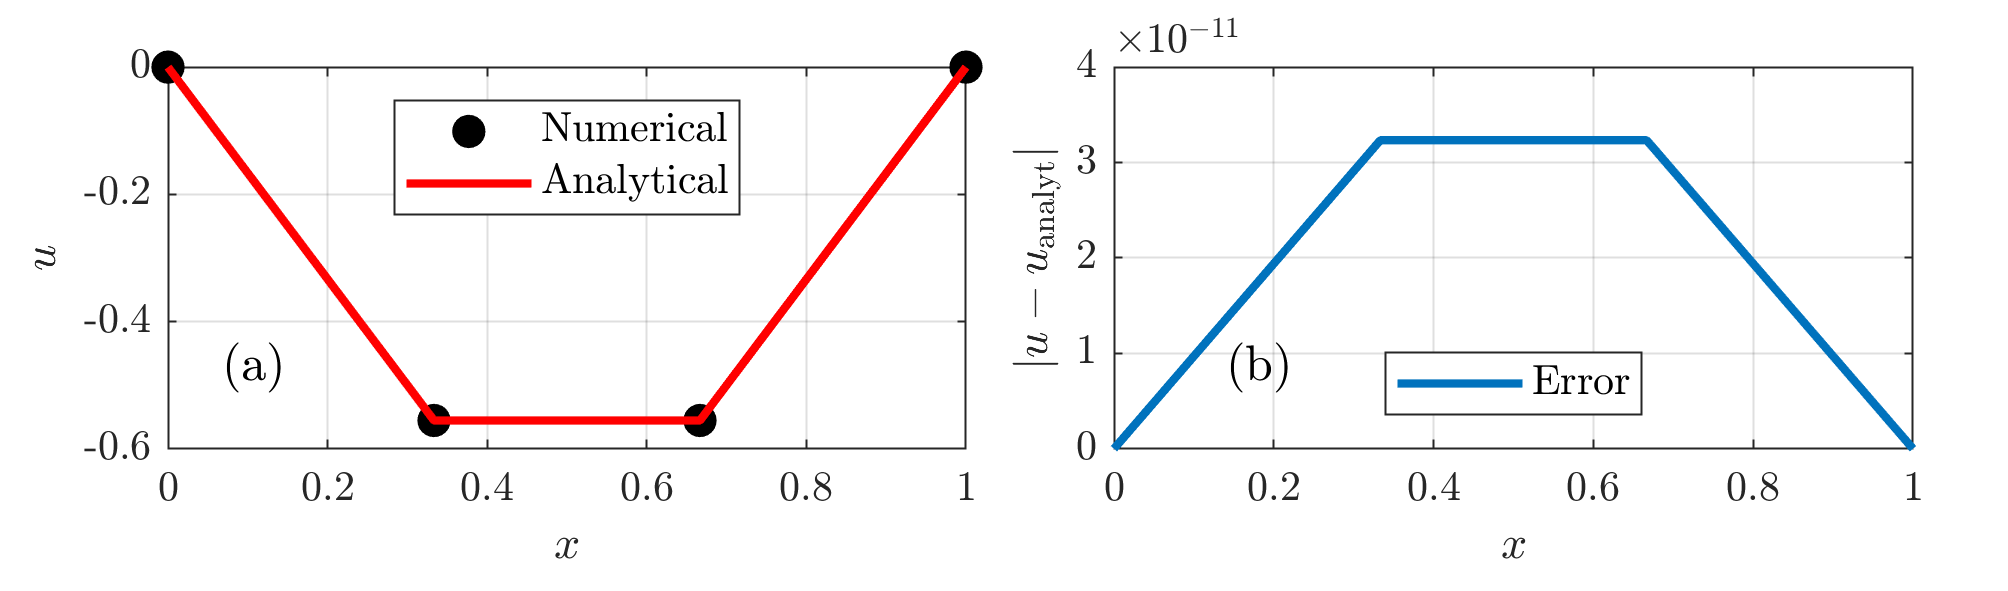
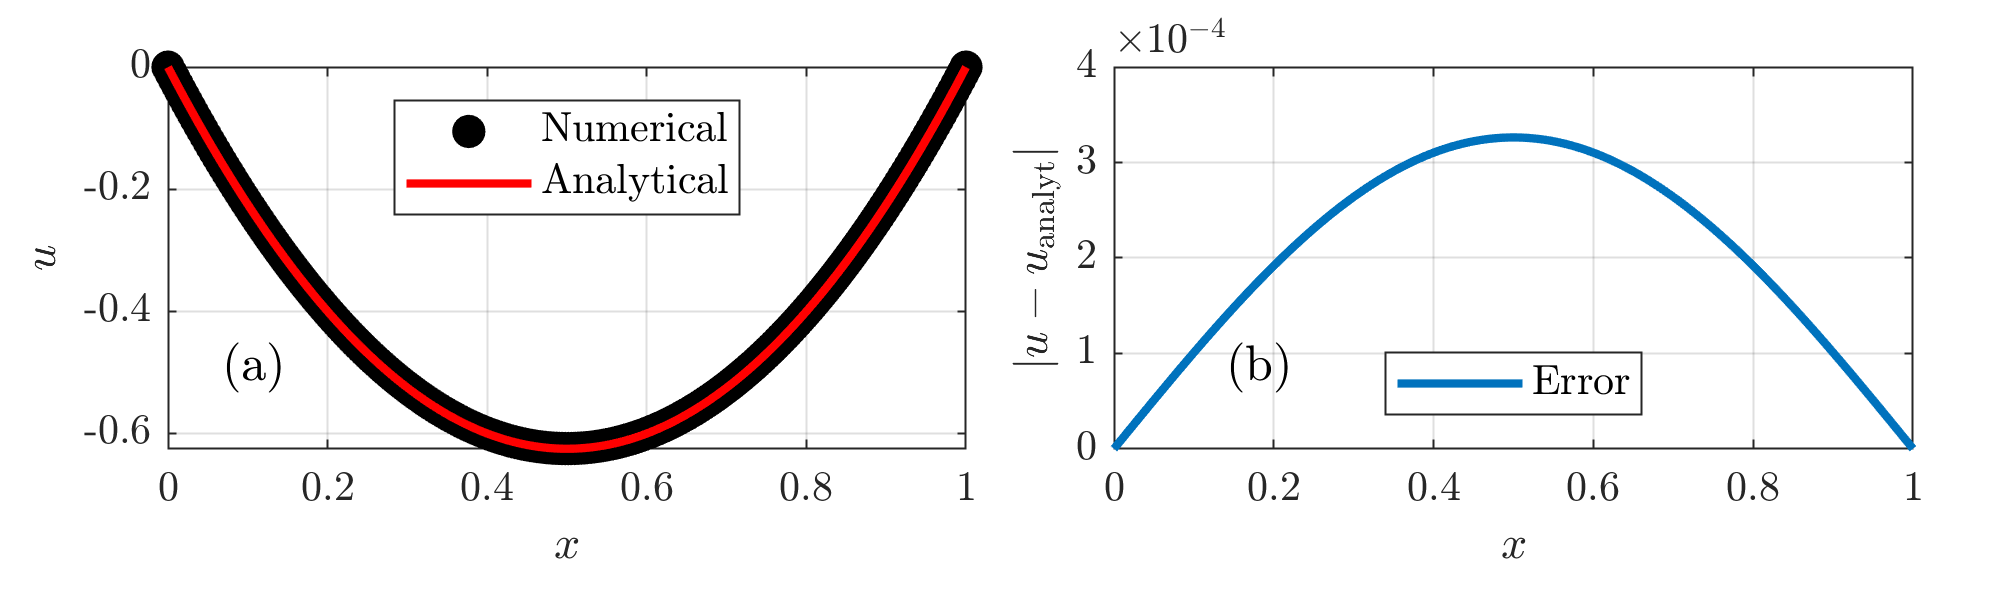
tyrell airfoil postprocessing added

diff --git a/postprocessing_tyrell_airfoil_simulation.m b/postprocessing_tyrell_airfoil_simulation.m
@@ -1,0 +1,23 @@
+clear all;
+close all;
+clc;
+
+
+data_dir = 'C:\Users\Tamas.Jozsa\OneDrive - Cranfield University\Desktop\tyrell4ACE\postproc';
+exp_data_file = 'Experiment_Cp_AoA_1_Freestream.dat';
+sim_data_file = 'pressure_coeff_case_compr_turb_SA_Re4.60e5_farfield_BC_second_order_AUSM.dat';
+
+exp_data = readmatrix(fullfile(data_dir, exp_data_file));
+exp_data = array2table(exp_data, ...
+    'VariableNames', {'x_coordinate', 'pressure_coefficient'});
+
+sim_data = readtable(fullfile(data_dir, sim_data_file));
+sim_data_upper = sortrows(sim_data(sim_data.pressure_coefficient >= 0, :), 'x_coordinate');
+sim_data_lower = sortrows(sim_data(sim_data.pressure_coefficient <= 0, :), 'x_coordinate');
+
+plot(exp_data.x_coordinate,exp_data.pressure_coefficient,'ko','MarkerFaceColor','black')
+hold on
+plot(sim_data_upper.x_coordinate,sim_data_upper.pressure_coefficient,'k-','LineWidth',2)
+plot(sim_data_lower.x_coordinate,sim_data_lower.pressure_coefficient,'b--','LineWidth',2)
+xlabel('x')
+ylabel('C_p')

diff --git a/BOS5_Poisson_solver.m b/BOS5_Poisson_solver.m
@@ -16,10 +16,10 @@ BC_value = [0,0];
 
 %% numerical configuration
 % number of nodes
-nx = 4;
+nx = 512;
 
 solver_type = 'indirect';
-niter = 200000;
+niter = 100000;
 
 x = linspace(x0,x1,nx);
 dx = abs(x(2)-x(1));
@@ -42,6 +42,9 @@ C1 = BC_value(2) - f/2 - C2;
 
 x_analyt = x.';%linspace(x0,x1,1001);
 u_analyt = a*x_analyt.^2 + C1*x_analyt + C2;
+
+% u = single(u);
+% u_analyt = single(u_analyt);
 
 err = abs(u - u_analyt);
 disp(max(err));
